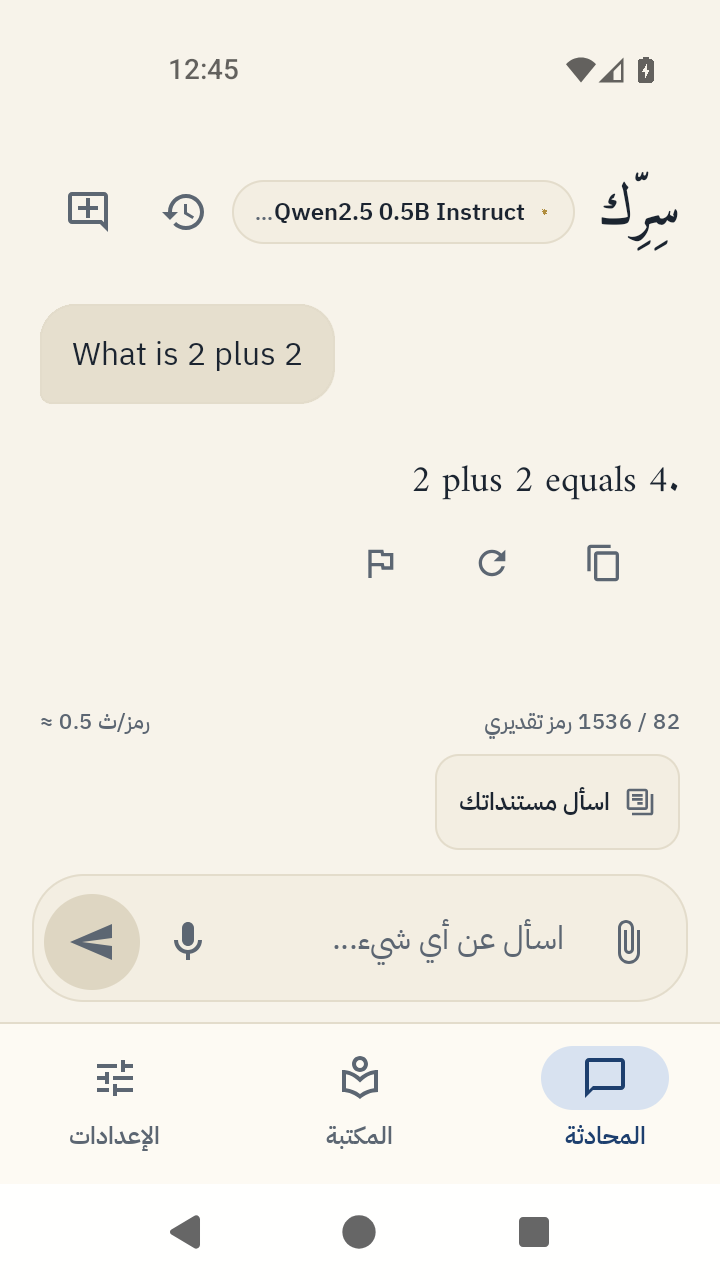
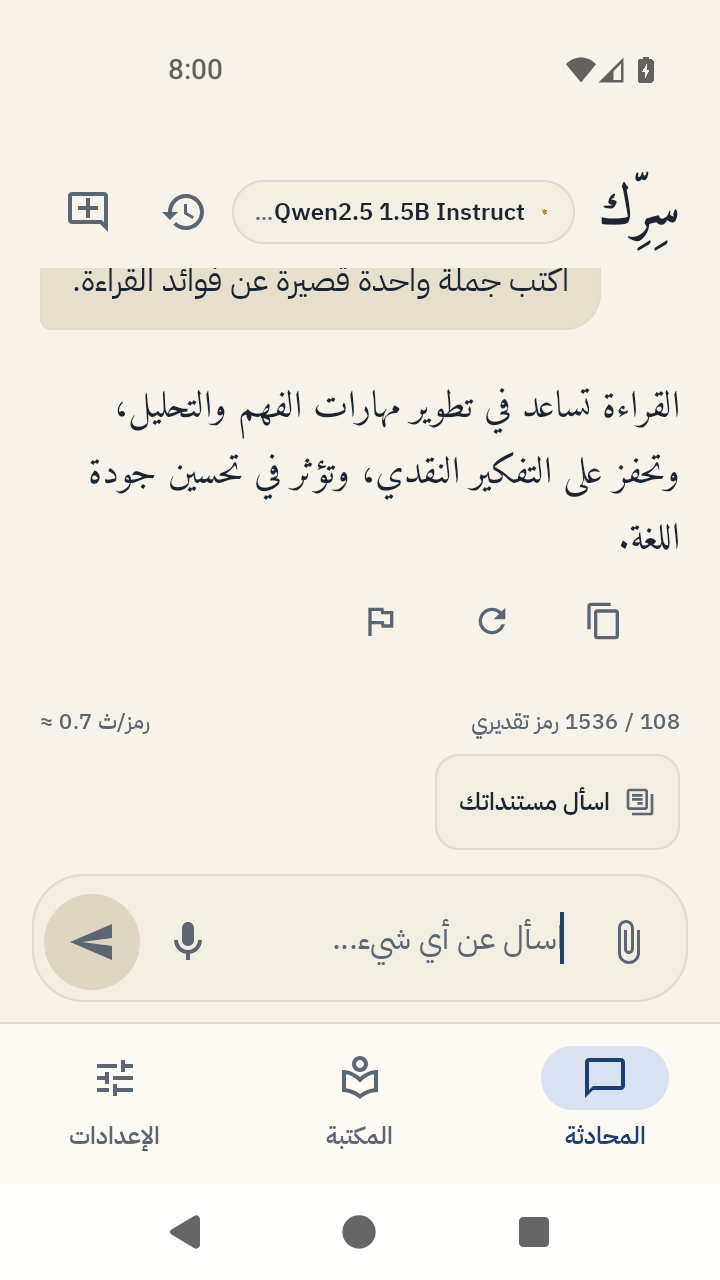
docs(store): Arabic-first chat screenshot 02 on the shipped candidate; P3.11 post-candidate follow-ups

diff --git a/docs/27-sirrak-launch-checklist.md b/docs/27-sirrak-launch-checklist.md
@@ -128,12 +128,12 @@ committed file in this tree; the repository, Pages, CI and release rows are addi
 evidence recorded next to them (GitHub run ids and public HTTP responses, measured after the first push).
 
 - [x] root Apache-2.0 LICENSE, NOTICE, public README (EN) + README.ar.md, CONTRIBUTING, CODE_OF_CONDUCT, SUPPORT, CHANGELOG, CITATION.cff, issue/PR templates, .editorconfig, .gitattributes
-- [x] hosted bilingual site with privacy/security pages; app config wired to https://alshahia.github.io/sirrak/privacy/ and /security/
+- [x] hosted bilingual site with privacy/security pages; app config wired to https://ahmadmhmdsy.github.io/sirrak/privacy/ and /security/
 - [x] F-Droid metadata completed (version/commit/source URLs) + documented prebuilt sherpa-onnx AAR limitation; submission not made yet
 - [x] store listing copy refreshed for GitHub-only distribution
-- [x] GitHub repository created, pushed and verified: <https://github.com/alshahia/sirrak> — public, Apache-2.0 detected, default branch `main`, description/topics/homepage set, secret scanning + push protection + Dependabot alerts enabled, branch protection on `main` with strict required checks (JVM tests, Arabic eval, lint, public site; linear history). Commits: `94aa16a` (P3.8 tree), `e8125f6` (Linux CI fixes), `ec78bae` (launch evidence in docs), `11faf01` (JVM test floor raised to 567) and `2b97f45` (published-facts validator + recorded artifact digests); the validator commit re-ran all four CI jobs and the Pages build green (CI `45162411487`, Pages `45162411708`).
+- [x] GitHub repository created, pushed and verified: <https://github.com/ahmadmhmdsy/sirrak> — public, Apache-2.0 detected, default branch `main`, description/topics/homepage set, secret scanning + push protection + Dependabot alerts enabled, branch protection on `main` with strict required checks (JVM tests, Arabic eval, lint, public site; linear history). Commits: `94aa16a` (P3.8 tree), `e8125f6` (Linux CI fixes), `ec78bae` (launch evidence in docs), `11faf01` (JVM test floor raised to 567) and `2b97f45` (published-facts validator + recorded artifact digests); the validator commit re-ran all four CI jobs and the Pages build green (CI `45162411487`, Pages `45162411708`).
 - [x] GitHub Pages enabled (`build_type=workflow`, HTTPS enforced) and live URLs verified on 2026-11-23 13:55 +03:00 — `/`, `/ar/`, `/privacy/`, `/security/`, `/ar/privacy/`, `/ar/security/`, `/sitemap.xml`, `/robots.txt`, `/llms.txt`, `/manifest.webmanifest`, `/assets/og-image.png` all return 200; EN `lang="en" dir="ltr"`, AR `lang="ar" dir="rtl"`; canonical, hreflang, Open Graph image and JSON-LD present (SoftwareApplication on the landing page, PrivacyPolicy and WebPage on the policy pages); sitemap lists all six pages; robots.txt points at the sitemap; the committed bilingual 404 page is served for unknown paths. Pages run `45159519451` green (build → validate → deploy).
-- [x] Release `v1.0.0-rc1` created with the signed `app-libre-release.apk` (145,711,750 B, SHA-256 `FD94EA31…`) and `app-play-release.aab` (64,938,455 B, SHA-256 `9326F505…`) attached, plus `SHA256SUMS`; certificate `4537ECEB…6806` — <https://github.com/alshahia/sirrak/releases/tag/v1.0.0-rc1>.
+- [x] Release `v1.0.0-rc1` created with the signed `app-libre-release.apk` (145,711,750 B, SHA-256 `FD94EA31…`) and `app-play-release.aab` (64,938,455 B, SHA-256 `9326F505…`) attached, plus `SHA256SUMS`; certificate `4537ECEB…6806` — <https://github.com/ahmadmhmdsy/sirrak/releases/tag/v1.0.0-rc1>.
 - [x] CI green on `main` (run `45159519429`): 567 JVM tests, Arabic eval 24/24, lint 0 errors, and the public-site job (build + 225/225 validation + committed-output drift) — all four status checks required by branch protection. Every later docs/validator commit re-ran the same four jobs green.
 - [x] Public-site drift guard: `app/src/test/java/app/sirrak/WebsiteContentTest.kt` (7 JVM tests) keeps the generated site, the brand source, the shipped app config and the hosted policy copy in sync, so a data edit without a rebuild fails CI.
 - [x] Published-facts validator: `scripts/validate-repo.ps1` (expectations in `store/repo-spec.json`, authenticated `gh` + network) proves the account-side state an offline check cannot see — description keywords/topics/homepage/license, Pages build type + HTTPS, secret scanning + push protection + Dependabot alerts, branch protection (strict four required checks, linear history, no force pushes/deletions), release assets with GitHub-computed SHA-256 digests matching `store/store-spec.json`, and all 11 live URLs returning 200 — **36/36 checks pass** at HEAD (the live-URL block is skipped only with `-SkipLive`). `release-check.ps1` also fails when a rebuilt artifact drifts from the recorded size/SHA-256.
@@ -154,7 +154,7 @@ artifacts, screenshots and record were left untouched.
 - [x] Store listing updated: `whats_new.txt` EN 492 / AR 479 characters (Play limit 500), screenshot manifest and repo spec carry rc2.
 - [x] Bilingual site regenerated from the data files: `1.0.0-rc2` / release date 2026-11-24 in `website/site.json`, content and policies (`policies.json.updated` = 2026-11-24); OG card re-rendered at 1200×630 from the new home screenshot; `build-site.ps1` clean, `validate-site.ps1` **225/225** at HEAD.
 - [x] `scripts/release-check.ps1` passes over the signed artifacts: Gradle release build + lint + full JVM suite verified in the full run, then the complete report re-produced with `-SkipBuild` against a rebooted AVD (the emulator process died after the Gradle step) — **567 tests, 0 failures, 0 errors**, **lint 0 errors / 36 reviewed warnings**, both artifacts size/SHA/certificate-verified, `validate-store.ps1` **79/79**, site **225/225**, screenshot regression **4/4 at distance 0**. Report written to `build/release-check.json` (not committed).
-- [x] Release `v1.0.0-rc2` published with the signed APK/AAB and `SHA256SUMS`; GitHub-computed asset digests match `store/store-spec.json` — <https://github.com/alshahia/sirrak/releases/tag/v1.0.0-rc2>.
+- [x] Release `v1.0.0-rc2` published with the signed APK/AAB and `SHA256SUMS`; GitHub-computed asset digests match `store/store-spec.json` — <https://github.com/ahmadmhmdsy/sirrak/releases/tag/v1.0.0-rc2>.
 - [x] CI green on `3b63f1f` (run `45373203824`): JVM unit tests, Arabic eval 24/24, Android lint and the public-site job (build + 225/225 + committed-output drift) all success; Pages deployment run `45373203860` success.
 - [x] Live surface verified after deployment: `validate-repo.ps1` **36/36** (repository facts, Pages, secret scanning, branch protection, release digests, all 11 live URLs 200); the live EN and AR landing pages serve `1.0.0-rc2` and the rc2 evidence rows.
 - [x] Limits unchanged and still explicit in §6: F-Droid and Play remain unpublished, performance is emulator-measured only, and no test phone was used (F8) — the rc2 device evidence is the emulator, as recorded above.
@@ -225,7 +225,7 @@ build, and its tag, artifacts and record are untouched.
 - [x] CI / pushed tree / live Pages: commit 5b344f2 pushed to `origin/main`; GitHub Actions CI (JVM
       tests, Arabic eval, Android lint) and the Pages workflow both passed (45551546176 / 45551546067).
       The live site is served at `https://ahmadmhmdsy.github.io/sirrak/`; the project Pages host used by
-      older links (`alshahia.github.io/sirrak`) no longer resolves and `siteUrl`/`repoUrl` still name the
+      older links (`ahmadmhmdsy.github.io/sirrak`) no longer resolves and `siteUrl`/`repoUrl` still name the
       old owner path — a URL-migration decision, recorded as an open item rather than a build gate.
 - [x] Docs and data aligned to 1.1.0: docs/31, docs/32, PRODUCT.md, CHANGELOG.md, README.md and
       README.ar.md, PRIVACY.md (policy version 2), SECURITY.md, website policies, store copy, NOTICE, SBOM,
@@ -236,3 +236,52 @@ deleted at app close because chat cannot reference shelf media; images are view-
 played from chat); HF rows cannot show per-file parameters/quantisation and an unprobed file stays `UNKNOWN`;
 downloads run one at a time; gated HF repos need a token that is held in memory only; settings search was not
 shipped; the APK is debug-signed and has no signing provenance.
+
+## P3.11 — post-candidate owner follow-ups (2026-11-25, evening)
+
+Owner decisions recorded after the 1.1.0 candidate: keep the signing key search `pending` (do not mint a key
+yet); replace the English chat screenshot with an Arabic-first one; migrate every old `alshahia` reference to
+the current owner/repo so nothing links to the past account; research running models larger than RAM/VRAM on a
+phone and bring the idea through a council before any implementation; if an APK must be shared before the key
+is recovered, share it only as a clearly marked debug build.
+
+- [x] URL migration: 29 tracked files (site data/content/policies, site scripts, docs 26–28, READMEs,
+      CONTRIBUTING/SECURITY/SUPPORT/PRIVACY, issue templates, store repo-spec, `app.json`) now point at
+      `ahmadmhmdsy`; `git grep alshahia -- ':!website/dist'` is empty. `website/dist` was regenerated and the
+      site validators re-run so the deployed page carries no old-owner link either. The old GitHub URLs only
+      301-redirect; the old Pages host 404s, so a link to it is a dead end, not a redirect.
+- [x] Screenshot 02 recaptured Arabic-first on the shipped candidate artifact itself
+      (`4CD65A60…539A`, pulled from the emulator and hash-verified immediately before the capture):
+      `store/screenshots/02-chat-answer-ar.png` now shows an Arabic prompt answered on-device by Qwen2.5 1.5B
+      Instruct, with the model chip, token meter and answer actions; layout was checked for clipping, overlap
+      and the IME bar. Provenance is in `store/screenshots/README.md`. The AOSP API 36 emulator image ships no
+      Arabic keyboard (`ime list -a` shows only LatinIME) and `adb shell input text` is ASCII-only, so the
+      third-party `ADBKeyboard` test IME was used to type the prompt; it was hidden before the capture, it is
+      emulator-only, and it is not in any shipping build (the APK is unchanged by this pass).
+- [x] Emulator findings for the release record (no catalogue change, no feature claimed): Qwen2.5-1.5B-Instruct
+      Q4_K_M (~1.12 GB) runs at ≈0.3–1.4 tok/s on the x86_64 API 36 emulator; Qwen2.5-3B-Instruct Q4_K_M
+      (2.10 GB, SHA-256 verified against the Hugging Face LFS oid) loads and answers after a fresh start but
+      produces corrupted mixed-language output after in-app model switching, at ≈0.1–0.4 tok/s. The switching
+      instability is logged as an engine defect to fix, not as a product capability.
+- [x] Bigger-than-RAM research: [docs/34](34-sirrak-oversize-model-offload.md) records the owner's
+      "run a model the phone cannot normally hold" idea, what Android actually allows (unified RAM, mmap page
+      cache, LMK/thermal/UFS limits), the literature, a qiyas-council ruling and a default-off MVP proposal.
+      Nothing is implemented and no marketing claim is made anywhere.
+- [ ] Debug pre-release for testers: the candidate debug APK is published as a GitHub **pre-release** marked
+      DEBUG / not latest (signed rc2 stays the latest release) so testers can reproduce issues without anyone
+      mistaking it for the signed product. The signed 1.1.0 store description/size update stays blocked on the
+      keystore.
+- [ ] Signing: still `pending` the owner's recovery attempt of the rc2 keystore. If it fails, a new key is a
+      key rotation: the new build cannot install over the rc2 build, so the release note must tell users to
+      export/backup conversations and uninstall the old build instead of implying an in-place update.
+
+**Lessons added by this pass**
+
+1. Hash-verify the installed artifact (`pm path` + `adb pull` + SHA-256) before attributing any screenshot
+   or device claim to a build; it turns "probably the candidate" into provenance.
+2. Budget for input method, not just app state: an AOSP emulator image has no Arabic keyboard and adb text
+   injection is ASCII-only, so a real Arabic capture needs a test IME (and disclosure of that fact).
+3. Treat model switching inside one app process as a defect surface until proven otherwise: capture evidence
+   from a fresh process when the model is the subject of the claim.
+4. When web search/fetch are unavailable, say "desk research" and mark uncertain claims `[unverified]`; never
+   present remembered citations as verified links.

diff --git a/store/screenshots/README.md b/store/screenshots/README.md
@@ -5,17 +5,25 @@ Captured on the API 36 emulator (`Nawa_Phone`, 720×1280) from the `libre` debug
 refreshed for 1.1.0 so the listing matches the candidate app: the no-model chip, the three library
 segments, privacy log, licences sheet and version row all show current wording.
 
-Provenance: `01-home-ar.png`, `02-chat-answer-ar.png`, `03-model-manager-ar.png`,
-`04-background-download.png`, `06-licences-ar.png` and `07-dictation-ar.png` are from candidate build
-SHA-256 `2C6F3A81…32C7`; `05-privacy-ar.png` and `08-settings-en.png` were recaptured on build
-`3BDC4213…192E` after the privacy footer and the Advanced-door summary were corrected. The shipped
-candidate artifact is `4CD65A60…539A`; it differs from `3BDC4213…192E` only in two in-app network-copy
-strings (the first-run privacy slide and the model-section note) that appear in no listing screenshot.
+Provenance: `01-home-ar.png`, `03-model-manager-ar.png`, `04-background-download.png`,
+`06-licences-ar.png` and `07-dictation-ar.png` are from candidate build SHA-256 `2C6F3A81…32C7`;
+`05-privacy-ar.png` and `08-settings-en.png` were recaptured on build `3BDC4213…192E` after the
+privacy footer and the Advanced-door summary were corrected. The shipped candidate artifact is
+`4CD65A60…539A`; it differs from `3BDC4213…192E` only in two in-app network-copy strings (the first-run
+privacy slide and the model-section note) that appear in no listing screenshot.
+
+`02-chat-answer-ar.png` was recaptured on 2026-11-25 evening on that same shipped candidate artifact
+(`4CD65A60…539A`, pulled from the emulator and hash-verified before the capture) so the chat shot is
+Arabic-first rather than English. The capture used the third-party `ADBKeyboard` test IME only to type
+Arabic into the emulator: the API 36 AOSP image ships no Arabic keyboard (`ime list -a` shows only
+`com.android.inputmethod.latin/.LatinIME`) and `adb shell input text` is ASCII-only. The IME was hidden
+before the screenshot and is not part of the app or of any shipping build; no other app or keyboard is
+visible in the file.
 
 | File | Screen | Use |
 | --- | --- | --- |
 | `01-home-ar.png` | Arabic RTL home: the "لا يوجد نموذج · غير محمّل" chip, the promise, and the "جرّب أن تسأل" suggestion card | phone 1 |
-| `02-chat-answer-ar.png` | chat with an on-device Qwen2.5 0.5B answer and the copy/regenerate/report actions | phone 2 |
+| `02-chat-answer-ar.png` | Arabic RTL chat: an Arabic prompt answered on-device by Qwen2.5 1.5B Instruct (model chip, token meter, copy/regenerate/report actions); Arabic typed with the emulator-only `ADBKeyboard` test IME, hidden before capture | phone 2 |
 | `03-model-manager-ar.png` | Library → Models: device card, Qwen2.5 0.5B recommendation, catalogue incl. the compact LFM2.5 350M tier | phone 3 |
 | `04-background-download.png` | expanded download notification: Qwen2.5 0.5B Instruct, progress, Cancel | phone 4 (the P3.4 story) |
 | `05-privacy-ar.png` | Privacy & data: offline-only switch, network log (1 request), AI output reports, policy links, and the note naming the three user-started network features | phone 5 |
